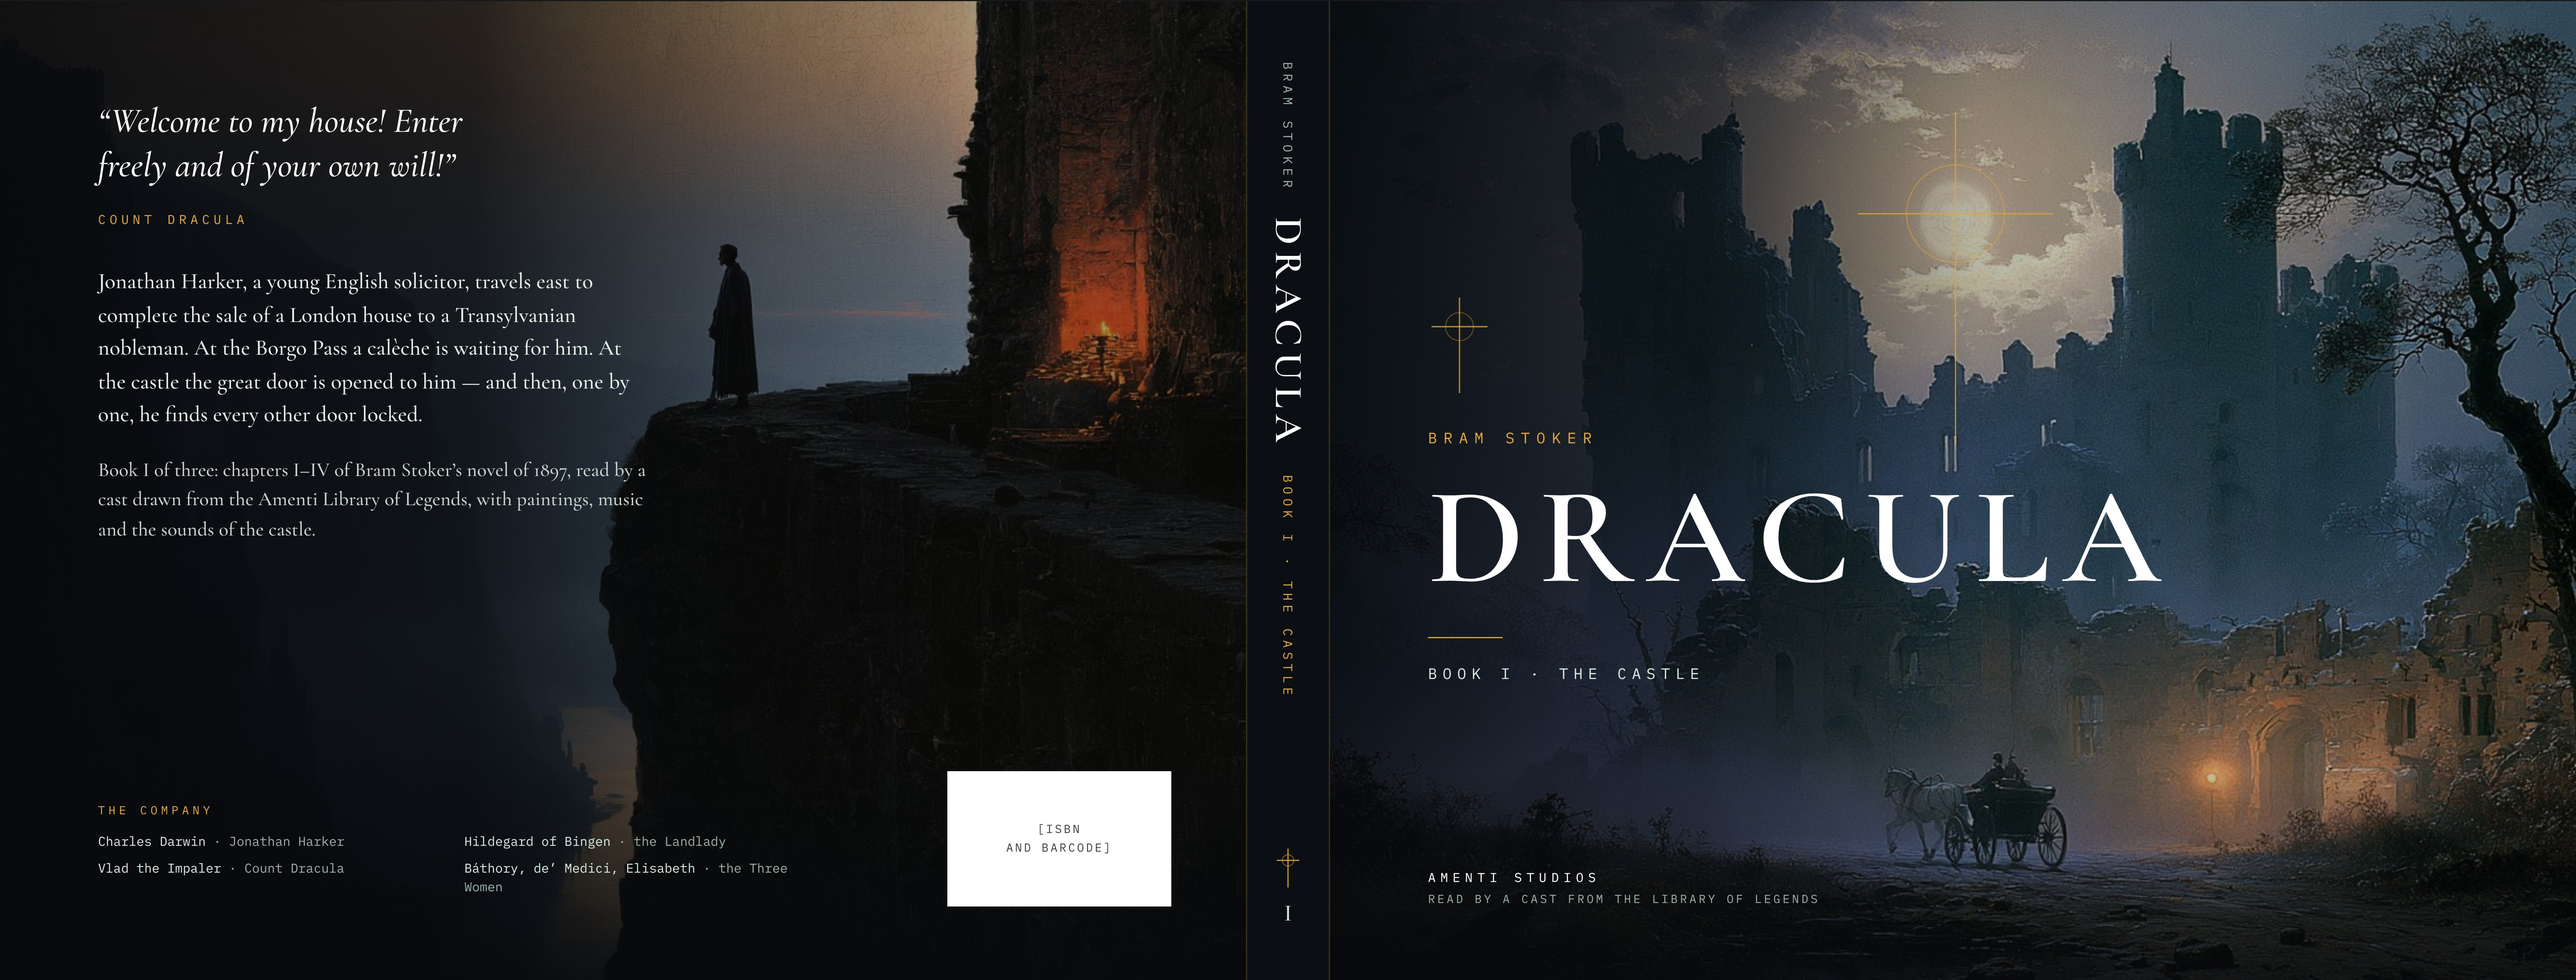
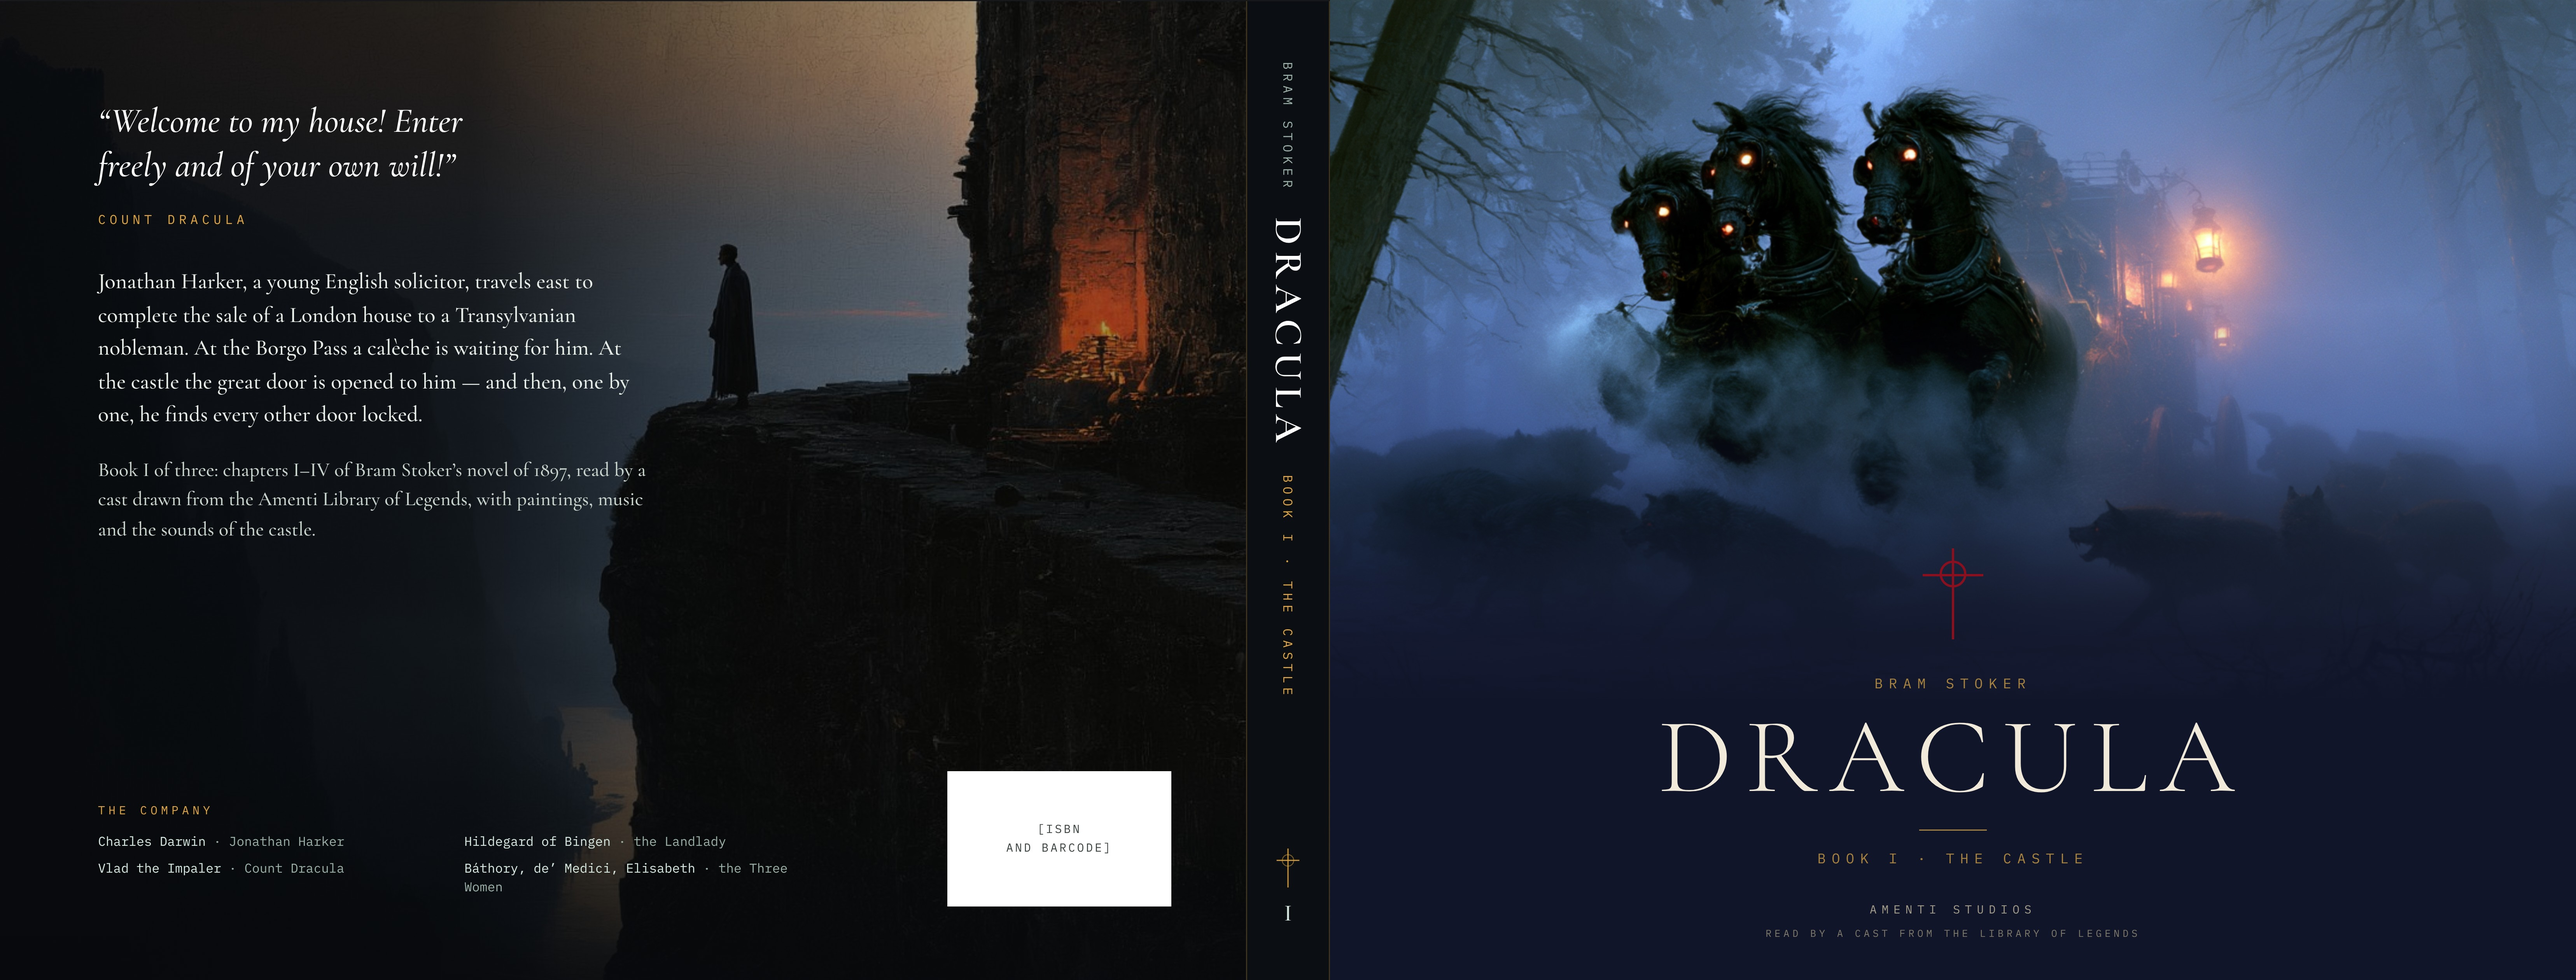
Book I cover: new front — the calèche and black horses (title page design); castle cover kept as cover-*-castle.jpg
Claude-Session: https://claude.ai/code/session_013VwDP7mPLrP4eYudhxc4u4

diff --git a/dracula/books/book-1/print/front.html b/dracula/books/book-1/print/front.html
@@ -1,0 +1,57 @@
+<!doctype html><html><head><meta charset="utf-8"><style>
+@font-face{font-family:G;src:url(node_modules/@fontsource/eb-garamond/files/eb-garamond-latin-400-normal.woff2)}
+@font-face{font-family:G;font-style:italic;src:url(node_modules/@fontsource/eb-garamond/files/eb-garamond-latin-400-italic.woff2)}
+@font-face{font-family:G;font-weight:600;src:url(node_modules/@fontsource/eb-garamond/files/eb-garamond-latin-500-normal.woff2)}
+@font-face{font-family:C;src:url(node_modules/@fontsource/cormorant-garamond/files/cormorant-garamond-latin-300-normal.woff2)}
+@font-face{font-family:M;src:url(node_modules/@fontsource/ibm-plex-mono/files/ibm-plex-mono-latin-400-normal.woff2)}
+@page{size:11in 8.5in;margin:0}
+:root{--ivory:#f5eee0;--ink:#2a2018;--gold:#a8823f;--red:#8a1020;--night:#141a2e}
+*{box-sizing:border-box}
+html,body{margin:0;background:#555}
+.pg{width:11in;height:8.5in;position:relative;overflow:hidden;background:var(--ivory);color:var(--ink);page-break-after:always;font:11.2pt/1.42 G;margin:0 auto}
+.night{background:var(--night);color:#e9e1d2}
+.flow{position:absolute;top:.95in;bottom:.9in;column-count:2;column-gap:.42in;column-fill:auto;overflow:hidden;hyphens:auto;text-align:justify}
+.L .flow{left:.75in;right:.95in}.R .flow{left:.95in;right:.75in}
+.flow p{margin:0;text-indent:1.3em}
+.flow p.first{text-indent:0}
+.flow p.cont{text-indent:0}
+.flow h2{font:300 22pt/1.1 C;letter-spacing:.04em;margin:.18in 0 .1in;text-align:left;column-span:none}
+.flow h3{font:italic 13pt G;margin:.12in 0 .04in}
+.flow img.inl{width:100%;display:block;margin:.08in 0 .1in;border-radius:1px}
+.flow img.orn{width:100%;display:block;margin:.12in 0 .04in}
+.flow ul{margin:.04in 0 .06in;padding-left:1.1em;text-align:left}
+.flow table{width:100%;border-collapse:collapse;font-size:10pt;margin:.06in 0 .1in;text-align:left}
+.flow td{padding:2px 0;border-bottom:1px solid #d9ccb3}.flow td:first-child{font-style:italic;padding-right:.15in}
+.rh{position:absolute;top:.48in;font:8pt M;letter-spacing:.32em;text-transform:uppercase;color:var(--gold)}
+.L .rh{left:.75in}.R .rh{right:.75in}
+.fo{position:absolute;bottom:.45in;font:9pt G;color:#7a6a55}.L .fo{left:.75in}.R .fo{right:.75in}
+.night .fo{color:#8d8aa0}
+.art{position:absolute;left:0;right:0;top:.95in;height:6.19in;background:center/cover no-repeat}
+.cap{position:absolute;left:0;right:0;bottom:.5in;text-align:center;font:italic 11pt G;color:#b9ad95;padding:0 1.4in}
+.bleed{position:absolute;inset:0;background:center/cover no-repeat}
+.ttl{position:absolute;inset:0;display:flex;flex-direction:column;align-items:center;justify-content:center;text-align:center}
+.k{font:8.5pt M;letter-spacing:.42em;text-transform:uppercase;color:var(--gold)}
+.big{font:300 76pt/1 C;letter-spacing:.12em;margin:.18in 0}
+.rule{width:.6in;height:1px;background:var(--gold);margin:.2in auto}
+.cross{width:.32in;height:.5in;position:relative;margin:0 auto .2in}
+.cross:before{content:"";position:absolute;left:50%;top:0;width:2px;height:100%;background:var(--red);transform:translateX(-50%)}
+.cross:after{content:"";position:absolute;left:0;top:28%;width:100%;height:2px;background:var(--red)}
+.cross i{position:absolute;left:50%;top:28%;width:.15in;height:.15in;border:1.6px solid var(--red);border-radius:50%;transform:translate(-50%,-50%)}
+.opener{position:absolute;left:.95in;right:.75in;top:.75in;height:2.55in}
+.opener .num{font:300 64pt/1 C;margin:.06in 0}
+.dc{float:left;font:300 52pt/0.8 C;margin:.06in .08in 0 0;color:var(--red)}
+.qr{position:absolute;right:.75in;top:.8in;width:1.05in;text-align:center;font:7pt M;letter-spacing:.2em;color:var(--gold);text-transform:uppercase}
+.qr img{width:1.05in;height:1.05in;display:block;margin-bottom:.05in}
+</style></head><body style="margin:0;background:#000"><div style="width:1068px;height:840px;position:relative;overflow:hidden;background:#11152a">
+<div style="position:absolute;left:0;right:0;top:0;height:601px;background:url(title-wolves.png) center top/100% auto no-repeat"></div>
+<div style="position:absolute;left:0;right:0;top:262px;height:345px;background:linear-gradient(180deg,rgba(17,21,42,0) 0%,rgba(17,21,42,.35) 30%,rgba(17,21,42,.75) 60%,rgba(17,21,42,.95) 82%,#11152a 100%)"></div>
+<div style="position:absolute;left:0;right:0;top:470px;text-align:center;color:#efe7d8">
+<div class="cross" style="width:52px;height:78px;margin:0 auto 30px"><i style="width:23px;height:23px;border-width:2.2px"></i></div>
+<div class="k" style="font-size:12px">Bram Stoker</div>
+<div style="font:300 92px/1 C;letter-spacing:.12em;color:#f1e9da;margin:10px 0 6px">DRACULA</div>
+<div class="rule" style="margin:16px auto"></div>
+<div class="k" style="font-size:12px">Book I · The Castle</div>
+<div style="height:30px"></div>
+<div class="k" style="font-size:10px;color:#a39c8a">Amenti Studios</div>
+<div class="k" style="font-size:8.5px;color:#7f7a6c;margin-top:8px;letter-spacing:.3em">Read by a cast from the Library of Legends</div>
+</div></div><script>document.fonts.ready.then(()=>document.title='done')</script></body></html>

diff --git a/dracula/books/book-1/print/shotf.js b/dracula/books/book-1/print/shotf.js
@@ -1,0 +1,3 @@
+const {chromium}=require('playwright');(async()=>{const b=await chromium.launch();const p=await b.newPage({viewport:{width:1068,height:840},deviceScaleFactor:3});
+await p.goto('file:///tmp/claude-0/print/front.html');await p.waitForFunction(()=>document.title==='done');await p.waitForTimeout(800);
+await p.screenshot({path:'/tmp/claude-0/print/front.png'});await b.close()})()
